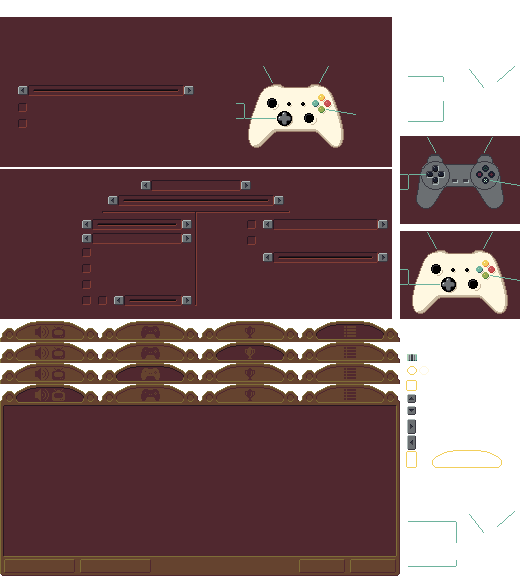
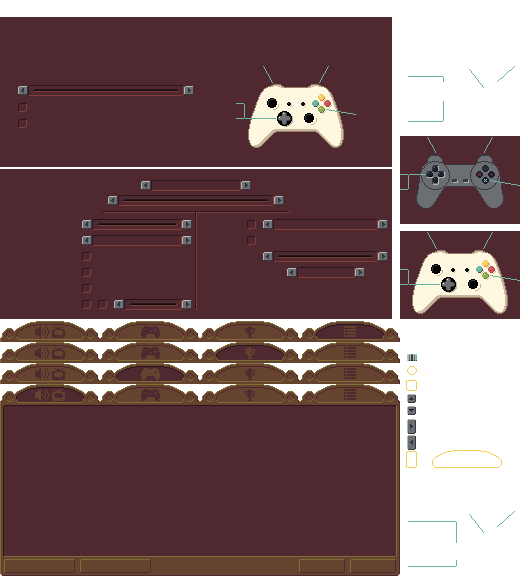
add tree quality to options menu fix alignment of options items

Changed region(s): [[0.1515, 0.4062, 0.3636, 0.5312], [0.4848, 0.4375, 0.7273, 0.5]]

diff --git a/samples/golf/src/golf/OptionsState.cpp b/samples/golf/src/golf/OptionsState.cpp
@@ -980,6 +980,7 @@ void OptionsState::buildScene()
     m_tooltips[ToolTipID::Controls] = createToolTip("Controls");
     m_tooltips[ToolTipID::Achievements] = createToolTip("Achievements");
     m_tooltips[ToolTipID::Stats] = createToolTip("Stats");
+    m_tooltips[ToolTipID::NeedsRestart] = createToolTip("Applied On Round Start");
 
     auto updateView = [&, rootNode](cro::Camera& cam) mutable
     {
@@ -1042,15 +1043,15 @@ void OptionsState::buildAVMenu(cro::Entity parent, const cro::SpriteSheet& sprit
     auto fovLabel = createLabel(glm::vec2(12.f, 98.f), "FOV: " + std::to_string(static_cast<std::int32_t>(m_sharedData.fov)));
 
     //resolution label
-    auto resLabel = createLabel(glm::vec2(12.f, 84.f), "Resolution");
+    auto resLabel = createLabel(glm::vec2(12.f, 82.f), "Resolution");
     //centreText(resLabel);
 
     //resolution value text
-    resLabel = createLabel(glm::vec2(136.f, 84.f), m_sharedData.resolutionStrings[m_videoSettings.resolutionIndex]);
+    resLabel = createLabel(glm::vec2(136.f, 82.f), m_sharedData.resolutionStrings[m_videoSettings.resolutionIndex]);
     centreText(resLabel);
 
     //pixel scale label
-    auto pixelLabel = createLabel(glm::vec2(12.f, 70.f), "Pixel Scaling");
+    auto pixelLabel = createLabel(glm::vec2(12.f, 66.f), "Pixel Scaling");
     pixelLabel.addComponent<cro::Callback>().active = true;
     pixelLabel.getComponent<cro::Callback>().function =
         [&](cro::Entity e, float)
@@ -1059,7 +1060,7 @@ void OptionsState::buildAVMenu(cro::Entity parent, const cro::SpriteSheet& sprit
     };
 
     //vertex snap label
-    auto vertLabel = createLabel(glm::vec2(12.f, 55.f), "Vertex Snap      (requires restart)");
+    auto vertLabel = createLabel(glm::vec2(12.f, 50.f), "Vertex Snap      (requires restart)");
     vertLabel.addComponent<cro::Callback>().active = true;
     vertLabel.getComponent<cro::Callback>().function =
         [&](cro::Entity e, float)
@@ -1068,10 +1069,10 @@ void OptionsState::buildAVMenu(cro::Entity parent, const cro::SpriteSheet& sprit
     };
 
     //full screen label
-    createLabel(glm::vec2(12.f, 39.f), "Full Screen");
+    createLabel(glm::vec2(12.f, 34.f), "Full Screen");
 
     //beacon label
-    auto beaconLabel = createLabel(glm::vec2(12.f, 23.f), "Flag Beacon");
+    auto beaconLabel = createLabel(glm::vec2(12.f, 18.f), "Flag Beacon");
     beaconLabel.addComponent<cro::Callback>().active = true;
     beaconLabel.getComponent<cro::Callback>().function =
         [&](cro::Entity e, float)
@@ -1093,6 +1094,15 @@ void OptionsState::buildAVMenu(cro::Entity parent, const cro::SpriteSheet& sprit
 
     //grid transparency
     createLabel({ 204.f, 66.f }, "Grid Amount");
+
+    //tree quality
+    auto treeLabel = createLabel({ 204.f, 50.f }, "Tree Quality");
+    treeLabel.addComponent<cro::Callback>().active = true;
+    treeLabel.getComponent<cro::Callback>().function = 
+        [&](cro::Entity e, float)
+    {
+        updateToolTip(e, ToolTipID::NeedsRestart);
+    };
 
     auto createSlider = [&](glm::vec2 position)
     {
@@ -1214,7 +1224,7 @@ void OptionsState::buildAVMenu(cro::Entity parent, const cro::SpriteSheet& sprit
     fovSlider.getComponent<cro::Transform>().addChild(tipEnt.getComponent<cro::Transform>());
 
     //grid transparency
-    auto transPos = glm::vec2(280.f, 62.f);
+    auto transPos = glm::vec2(280.f, 63.f);
     auto transSlider = createSlider(transPos);
     auto ud = SliderData(transPos, 91.f);
     ud.onActivate =
@@ -1361,7 +1371,7 @@ void OptionsState::buildAVMenu(cro::Entity parent, const cro::SpriteSheet& sprit
 
 
     //res down
-    entity = createHighlight(glm::vec2((bgBounds.width / 2.f) - 115.f, 75.f));
+    entity = createHighlight(glm::vec2((bgBounds.width / 2.f) - 115.f, 73.f));
     entity.getComponent<cro::UIInput>().callbacks[cro::UIInput::ButtonDown] =
         uiSystem.addCallback(
             [&, resLabel](cro::Entity e, cro::ButtonEvent evt) mutable
@@ -1376,7 +1386,7 @@ void OptionsState::buildAVMenu(cro::Entity parent, const cro::SpriteSheet& sprit
         });
 
     //res up
-    entity = createHighlight(glm::vec2((bgBounds.width / 2.f) - 14.f, 75.f));
+    entity = createHighlight(glm::vec2((bgBounds.width / 2.f) - 14.f, 73.f));
     entity.getComponent<cro::UIInput>().callbacks[cro::UIInput::ButtonDown] =
         uiSystem.addCallback(
             [&, resLabel](cro::Entity e, cro::ButtonEvent evt) mutable
@@ -1392,7 +1402,7 @@ void OptionsState::buildAVMenu(cro::Entity parent, const cro::SpriteSheet& sprit
 
 
     //pixel scale check box
-    entity = createHighlight(glm::vec2(81.f, 61.f));
+    entity = createHighlight(glm::vec2(81.f, 57.f));
     entity.getComponent<cro::UIInput>().callbacks[cro::UIInput::ButtonDown] =
         uiSystem.addCallback([&](cro::Entity e, cro::ButtonEvent evt)
             {
@@ -1405,7 +1415,7 @@ void OptionsState::buildAVMenu(cro::Entity parent, const cro::SpriteSheet& sprit
 
     //pixel scale checkbox centre
     entity = m_scene.createEntity();
-    entity.addComponent<cro::Transform>().setPosition(glm::vec3(83.f, 63.f, HighlightOffset));
+    entity.addComponent<cro::Transform>().setPosition(glm::vec3(83.f, 59.f, HighlightOffset));
     entity.addComponent<cro::Drawable2D>().getVertexData() =
     {
         cro::Vertex2D(glm::vec2(0.f, 7.f), TextGoldColour),
@@ -1424,7 +1434,7 @@ void OptionsState::buildAVMenu(cro::Entity parent, const cro::SpriteSheet& sprit
     parent.getComponent<cro::Transform>().addChild(entity.getComponent<cro::Transform>());
 
     //vertex snap checkbox
-    entity = createHighlight(glm::vec2(81.f, 45.f));
+    entity = createHighlight(glm::vec2(81.f, 41.f));
     entity.getComponent<cro::UIInput>().callbacks[cro::UIInput::ButtonDown] =
         uiSystem.addCallback([&](cro::Entity e, cro::ButtonEvent evt)
             {
@@ -1436,7 +1446,7 @@ void OptionsState::buildAVMenu(cro::Entity parent, const cro::SpriteSheet& sprit
             });
     //vertex snap centre
     entity = m_scene.createEntity();
-    entity.addComponent<cro::Transform>().setPosition(glm::vec3(83.f, 47.f, HighlightOffset));
+    entity.addComponent<cro::Transform>().setPosition(glm::vec3(83.f, 43.f, HighlightOffset));
     entity.addComponent<cro::Drawable2D>().getVertexData() =
     {
         cro::Vertex2D(glm::vec2(0.f, 7.f), TextGoldColour),
@@ -1457,7 +1467,7 @@ void OptionsState::buildAVMenu(cro::Entity parent, const cro::SpriteSheet& sprit
 
 
     //full screen check box
-    entity = createHighlight(glm::vec2(81.f, 29.f));
+    entity = createHighlight(glm::vec2(81.f, 25.f));
     entity.getComponent<cro::UIInput>().callbacks[cro::UIInput::ButtonDown] =
         uiSystem.addCallback([&](cro::Entity e, cro::ButtonEvent evt)
             {
@@ -1470,7 +1480,7 @@ void OptionsState::buildAVMenu(cro::Entity parent, const cro::SpriteSheet& sprit
 
     //full screen checkbox centre
     entity = m_scene.createEntity();
-    entity.addComponent<cro::Transform>().setPosition(glm::vec3(83.f, 31.f, HighlightOffset));
+    entity.addComponent<cro::Transform>().setPosition(glm::vec3(83.f, 27.f, HighlightOffset));
     entity.addComponent<cro::Drawable2D>().getVertexData() =
     {
         cro::Vertex2D(glm::vec2(0.f, 7.f), TextGoldColour),
@@ -1491,7 +1501,7 @@ void OptionsState::buildAVMenu(cro::Entity parent, const cro::SpriteSheet& sprit
 
 
     //beacon check box
-    entity = createHighlight(glm::vec2(81.f, 13.f));
+    entity = createHighlight(glm::vec2(81.f, 9.f));
     entity.getComponent<cro::UIInput>().callbacks[cro::UIInput::ButtonDown] =
         uiSystem.addCallback([&](cro::Entity e, cro::ButtonEvent evt)
             {
@@ -1504,7 +1514,7 @@ void OptionsState::buildAVMenu(cro::Entity parent, const cro::SpriteSheet& sprit
 
     //beacon checkbox centre
     entity = m_scene.createEntity();
-    entity.addComponent<cro::Transform>().setPosition(glm::vec3(83.f, 15.f, HighlightOffset));
+    entity.addComponent<cro::Transform>().setPosition(glm::vec3(83.f, 11.f, HighlightOffset));
     entity.addComponent<cro::Drawable2D>().getVertexData() =
     {
         cro::Vertex2D(glm::vec2(0.f, 7.f), TextGoldColour),
@@ -1525,7 +1535,7 @@ void OptionsState::buildAVMenu(cro::Entity parent, const cro::SpriteSheet& sprit
 
     //beacon colour preview
     entity = m_scene.createEntity();
-    entity.addComponent<cro::Transform>().setPosition(glm::vec3(99.f, 15.f, HighlightOffset));
+    entity.addComponent<cro::Transform>().setPosition(glm::vec3(99.f, 11.f, HighlightOffset));
     entity.addComponent<cro::Drawable2D>().setVertexData(
     {
         cro::Vertex2D(glm::vec2(0.f, 7.f), cro::Colour::Magenta),
@@ -1544,7 +1554,7 @@ void OptionsState::buildAVMenu(cro::Entity parent, const cro::SpriteSheet& sprit
     glUseProgram(shaderID);
     glUniform1f(uniformID, m_sharedData.beaconColour);
 
-    entity = createHighlight(glm::vec2(114.f, 13.f));
+    entity = createHighlight(glm::vec2(114.f, 9.f));
     entity.getComponent<cro::UIInput>().callbacks[cro::UIInput::ButtonDown] =
         uiSystem.addCallback([&, shaderID, uniformID](cro::Entity e, cro::ButtonEvent evt)
             {
@@ -1558,7 +1568,7 @@ void OptionsState::buildAVMenu(cro::Entity parent, const cro::SpriteSheet& sprit
                 }
             });
 
-    entity = createHighlight(glm::vec2(182.f, 13.f));
+    entity = createHighlight(glm::vec2(182.f, 9.f));
     entity.getComponent<cro::UIInput>().callbacks[cro::UIInput::ButtonDown] =
         uiSystem.addCallback([&, shaderID, uniformID](cro::Entity e, cro::ButtonEvent evt)
             {
@@ -1573,7 +1583,7 @@ void OptionsState::buildAVMenu(cro::Entity parent, const cro::SpriteSheet& sprit
             });
 
     //colour slider
-    auto colourPos = glm::vec2(131.f, 19.f);
+    auto colourPos = glm::vec2(131.f, 15.f);
     auto colourSlider = createSlider(colourPos);
     auto sliderData = SliderData(colourPos, 44.f);
     sliderData.onActivate =
@@ -1700,7 +1710,7 @@ void OptionsState::buildAVMenu(cro::Entity parent, const cro::SpriteSheet& sprit
 
 
     //prev/next grid transparency
-    entity = createHighlight(glm::vec2(262.f, 56.f));
+    entity = createHighlight(glm::vec2(262.f, 57.f));
     entity.getComponent<cro::UIInput>().callbacks[cro::UIInput::ButtonDown] =
         uiSystem.addCallback([&](cro::Entity e, cro::ButtonEvent evt) mutable
             {
@@ -1712,7 +1722,7 @@ void OptionsState::buildAVMenu(cro::Entity parent, const cro::SpriteSheet& sprit
                 }
             });
 
-    entity = createHighlight(glm::vec2(378.f, 56.f));
+    entity = createHighlight(glm::vec2(378.f, 57.f));
     entity.getComponent<cro::UIInput>().callbacks[cro::UIInput::ButtonDown] =
         uiSystem.addCallback([&](cro::Entity e, cro::ButtonEvent evt) mutable
             {
@@ -1724,6 +1734,39 @@ void OptionsState::buildAVMenu(cro::Entity parent, const cro::SpriteSheet& sprit
             });
 
 
+    static const std::array<std::string, 3u> TreeLabels =
+    {
+        "Low", "Medium", "High"
+    };
+    auto treeQualityText = createLabel({ 325.f, 50.f }, TreeLabels[m_sharedData.treeQuality]);
+    centreText(treeQualityText);
+
+    //prev / next tree quality
+    entity = createHighlight(glm::vec2(286.f, 41.f));
+    entity.getComponent<cro::UIInput>().callbacks[cro::UIInput::ButtonDown] =
+        uiSystem.addCallback([&, treeQualityText](cro::Entity e, cro::ButtonEvent evt) mutable
+            {
+                if (activated(evt))
+                {
+                    m_sharedData.treeQuality = (m_sharedData.treeQuality + 2) % 3;
+                    treeQualityText.getComponent<cro::Text>().setString(TreeLabels[m_sharedData.treeQuality]);
+                    centreText(treeQualityText);
+                    m_audioEnts[AudioID::Accept].getComponent<cro::AudioEmitter>().play();
+                }
+            });
+
+    entity = createHighlight(glm::vec2(355.f, 41.f));
+    entity.getComponent<cro::UIInput>().callbacks[cro::UIInput::ButtonDown] =
+        uiSystem.addCallback([&, treeQualityText](cro::Entity e, cro::ButtonEvent evt) mutable
+            {
+                if (activated(evt))
+                {
+                    m_sharedData.treeQuality = (m_sharedData.treeQuality + 1) % 3;
+                    treeQualityText.getComponent<cro::Text>().setString(TreeLabels[m_sharedData.treeQuality]);
+                    centreText(treeQualityText);
+                    m_audioEnts[AudioID::Accept].getComponent<cro::AudioEmitter>().play();
+                }
+            });
 }
 
 void OptionsState::buildControlMenu(cro::Entity parent, const cro::SpriteSheet& spriteSheet)

diff --git a/samples/golf/src/editor/BushState.cpp b/samples/golf/src/editor/BushState.cpp
@@ -418,7 +418,7 @@ void BushState::createScene()
     glm::vec2 camSize = glm::vec2(BillboardTargetSize) / PixelsPerMetre;
     m_billboardCamera = m_gameScene.createEntity();
     m_billboardCamera.addComponent<cro::Transform>().setPosition({0.f, 0.f, 3.f});
-    m_billboardCamera.addComponent<cro::Camera>().setOrthographic(-(camSize.x) / 2.f, camSize.x / 2.f, 0.f, camSize.y, 0.1f, 10.f);
+    m_billboardCamera.addComponent<cro::Camera>().setOrthographic(-(camSize.x) / 2.f, camSize.x / 2.f, 0.f, camSize.y, 0.1f, 16.f);
 }
 
 void BushState::updateView(cro::Camera& cam3D)

diff --git a/samples/golf/src/golf/OptionsState.hpp b/samples/golf/src/golf/OptionsState.hpp
@@ -116,6 +116,7 @@ private:
             BeaconColour, MouseSpeed,
             Video, Controls,
             Achievements, Stats,
+            NeedsRestart,
             Count
         };
     };
